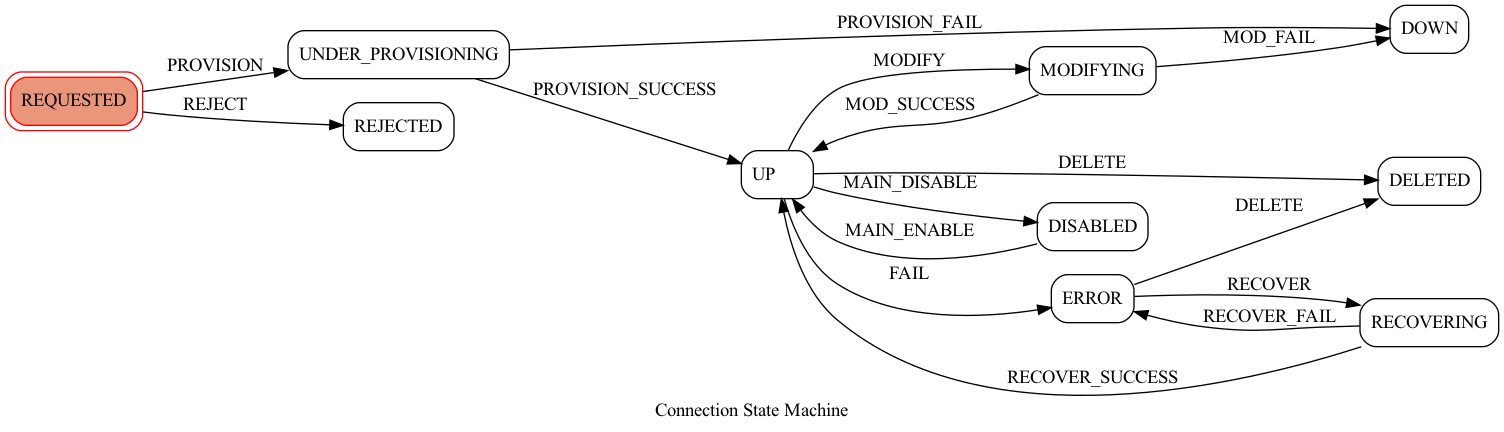
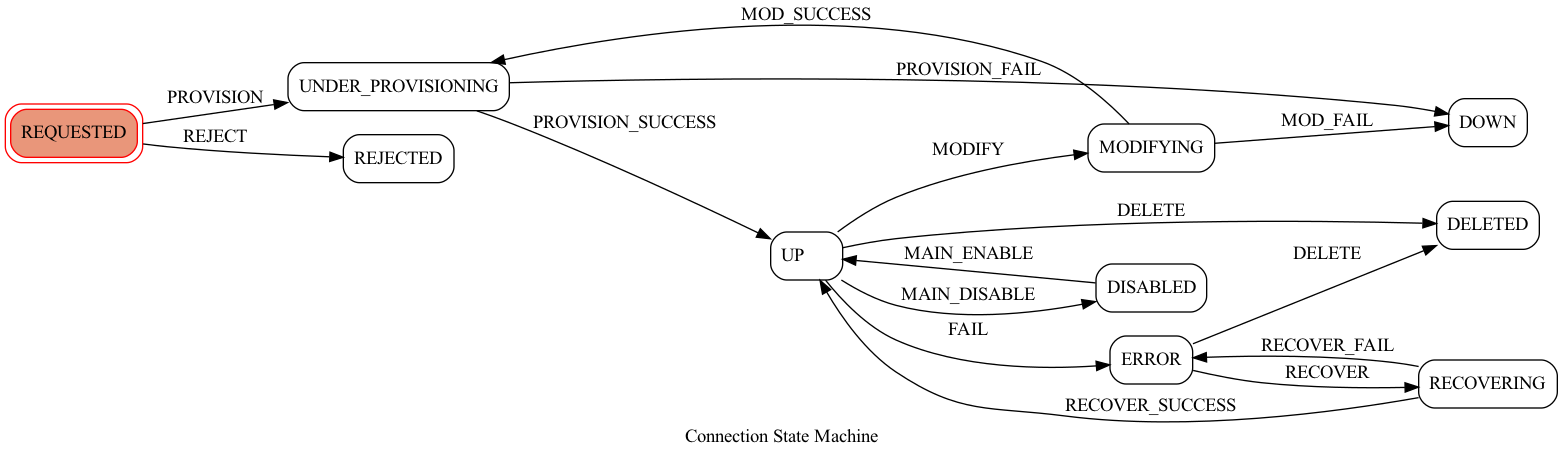
sm:modifying

diff --git a/src/sdx_datamodel/connection_sm.py b/src/sdx_datamodel/connection_sm.py
@@ -107,7 +107,7 @@ class ConnectionStateMachine:
         {
             "trigger": str(Trigger.MOD_SUCCESS),
             "source": str(State.MODIFYING),
-            "dest": str(State.UP),
+            "dest": str(State.UNDER_PROVISIONING),
         },
         {
             "trigger": str(Trigger.MOD_FAIL),
@@ -177,7 +177,7 @@ class ConnectionStateMachine:
             ],
             self.State.DOWN: [self.State.RECOVERING],
             self.State.MODIFYING: [
-                self.State.UP,
+                self.State.UNDER_PROVISIONING,
                 self.State.DOWN,
             ],
             self.State.ERROR: [self.State.RECOVERING],
